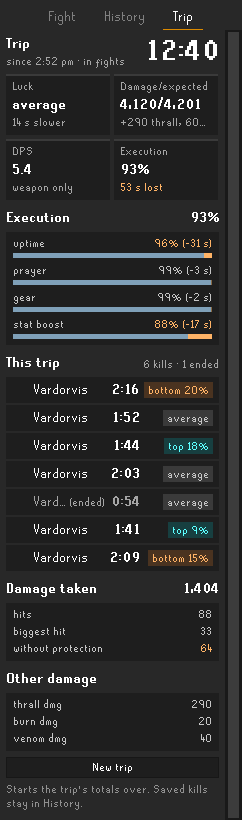
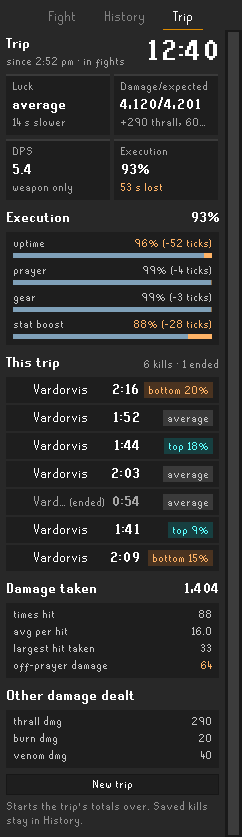
T-067 with T-116 to T-119: pictures re-rendered (ticks, damage, new labels); README and CHANGELOG say ticks and damage

diff --git a/CHANGELOG.md b/CHANGELOG.md
@@ -5,10 +5,10 @@ Luck vs Skill is its own Plugin Hub entry. It began as a fork of Arodab's PvM Pe
 
 **Luck and Execution**
 - Luck as a percentile of how the same attacks could have rolled (bottom 20%, the middle half, top 15%), and the seconds it cost or saved.
-- Execution split into uptime, prayer, gear (armour only: your weapon and ammo are never judged) and stat boost, each in seconds.
+- Execution split into uptime (the ticks you lost), and prayer, gear (armour only: your weapon and ammo are never judged) and stat boost (the expected damage each cost).
 - Downtime the boss forces on you (where a mechanic stops you attacking) isn't lost uptime: it shows as a neutral "mechanics" line.
 - Eating is neutral: its own line, not a cost. At Vardorvis, eating for avoidable damage counts against Execution after the kill, and damage taken says how much was avoidable.
-- Defence drain: the Defence your and your party's specials took, live and after the kill, with each boss's floor, immunity and regeneration; a missed special counts as bad luck, and the drain's worth is shown in seconds.
+- Defence drain: the Defence your and your party's specials took, live and after the kill, with each boss's floor, immunity and regeneration; a missed special counts as bad luck, and the drain's worth is shown in damage and seconds.
 
 **What's counted**
 - Your thrall's hits, recoil, vengeance, and burn, poison, venom and bleed are kept apart from your weapon's damage; the boss healing comes off.

diff --git a/README.md b/README.md
@@ -8,7 +8,7 @@ It works out what each of your attacks should have done, from your gear, levels,
 
 ### Luck and Execution
 - **Luck** says how lucky the kill was: where your damage falls among all the ways the same attacks could have rolled (bottom 20%, the middle half, top 15%), and what that cost or saved in seconds.
-- **Execution** says how much of the fight you spent attacking, and with the right setup: uptime, prayer, gear and stat boost, each with the seconds it cost.
+- **Execution** says how much of the fight you spent attacking, and with the right setup: uptime, with the ticks you lost, and prayer, gear and stat boost, with the expected damage each cost.
 - **Defence drain:** when your special attacks (or your party's) lower the boss's Defence, it tracks the Defence left, counts a missed special as bad luck, and says how much time the drain saved.
 - **After a kill at a boss with attack rules** (Vardorvis so far), it also counts the food you ate because of damage you could have avoided, and how much of the damage you took was avoidable.
 
